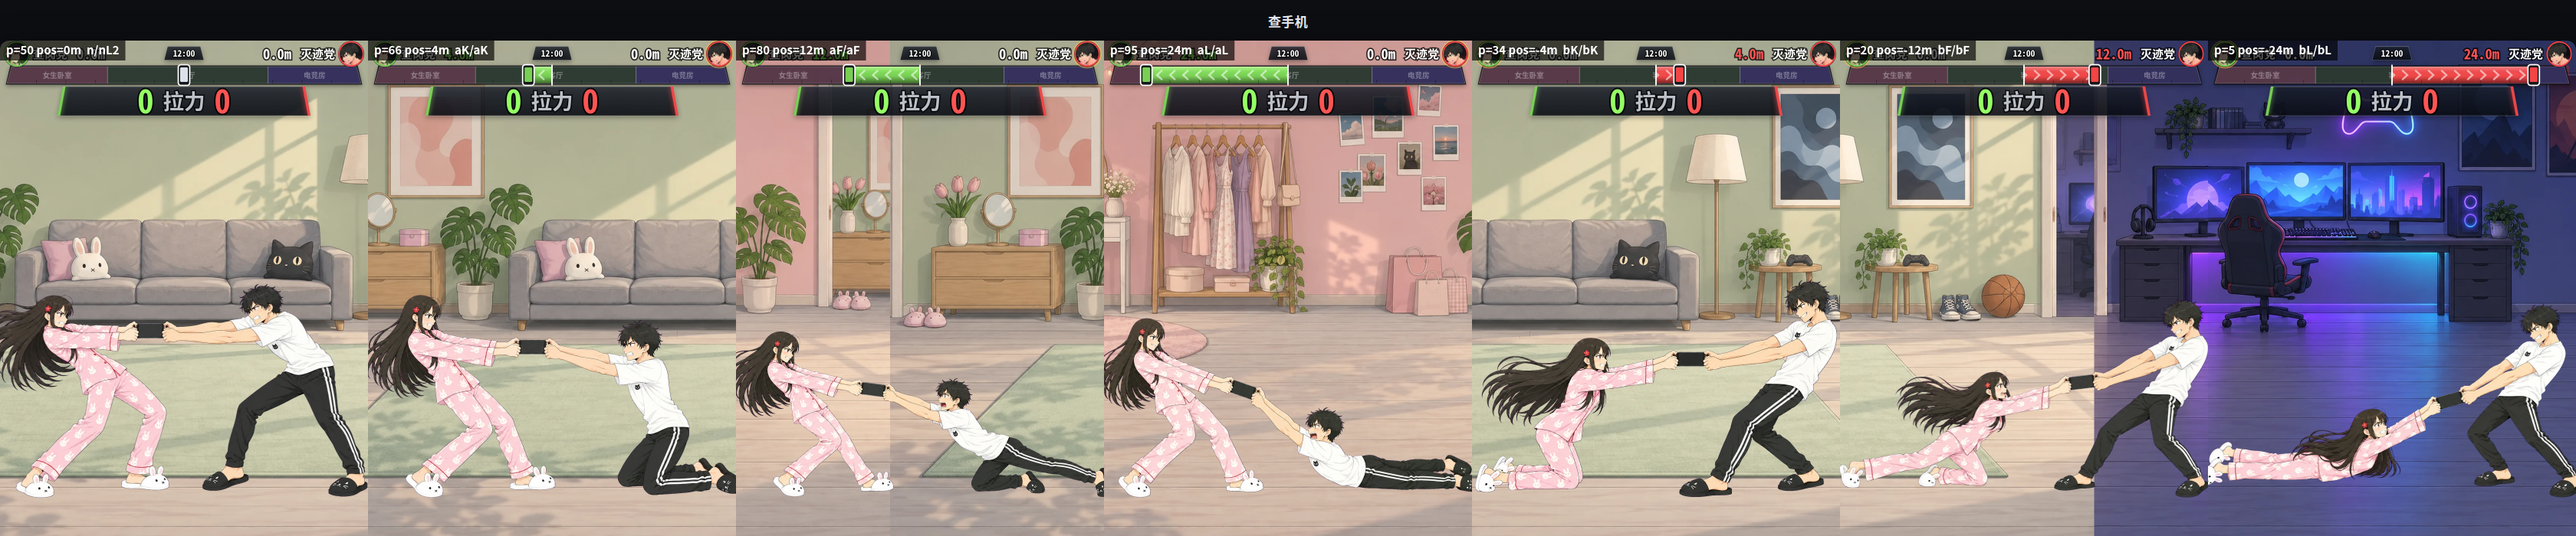
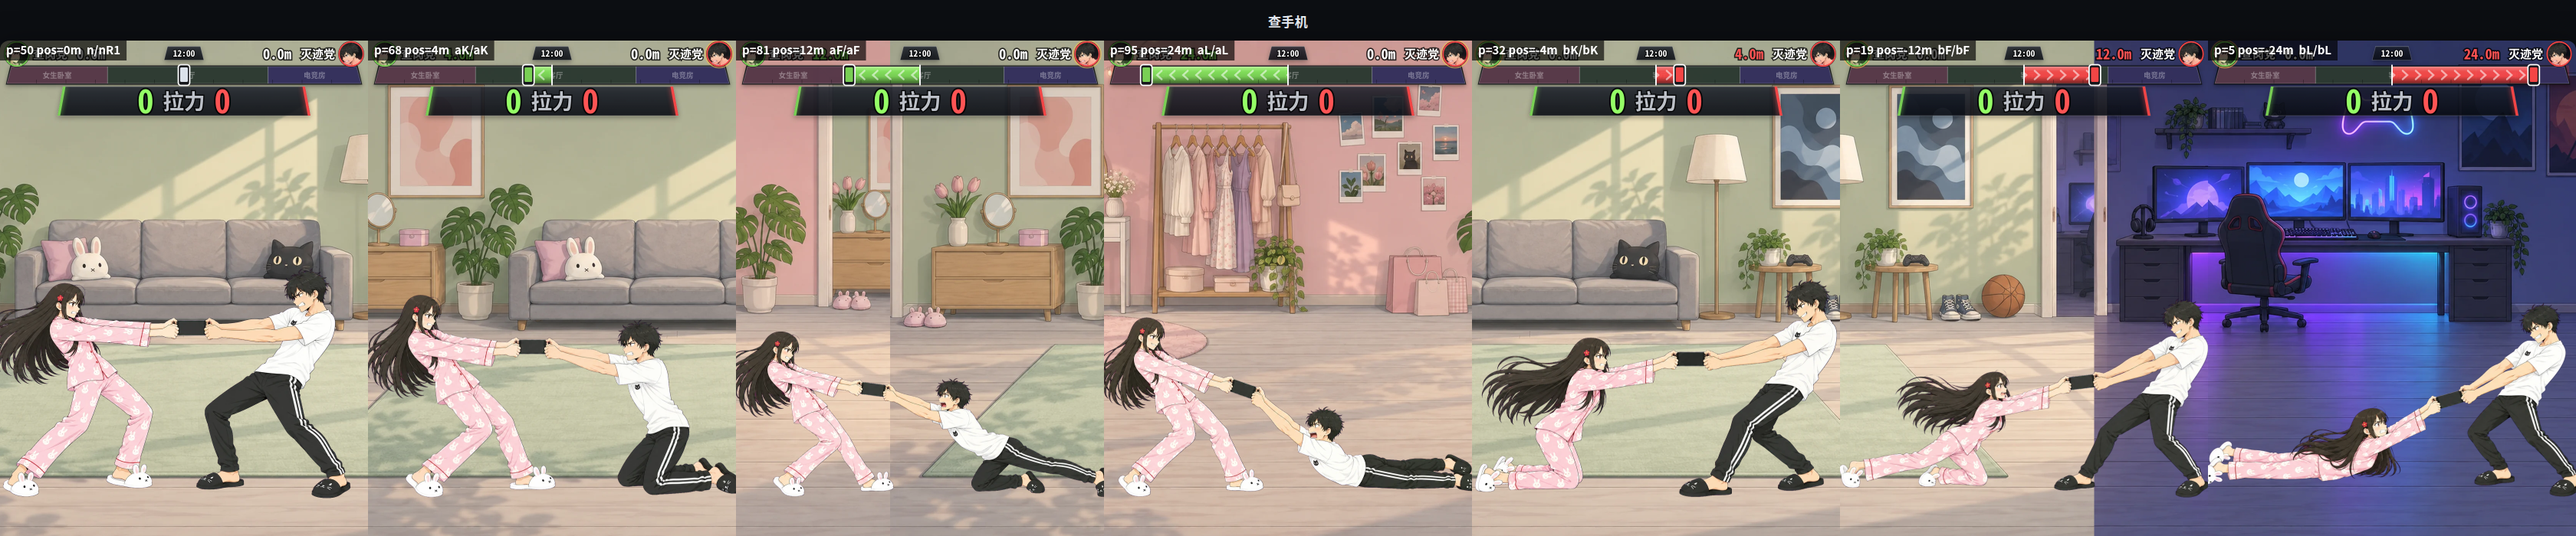
fix: 查手机 v14 四档动作平分并保证每局都看得到
门槛平分 0.25/0.5/0.75；一次只走一档、每档至少 0.6 秒；姿势取拉力与拖动距离两把尺中更狼狈的，反攻时只看拉力。

diff --git a/chashouji/web/main.js b/chashouji/web/main.js
@@ -26,15 +26,26 @@ const P = {
      （距离条上的房间分段按 world.json 现算，不用这两个数）。 */
   pxPerM: 82,
 
-  /* 姿态怎么选：按 S.p 的偏离量 |bias|（0 = 势均力敌，1 = 拉力差顶满）。
+  /* 姿态怎么选：两把尺取更狼狈的那个 ——
+       拉力：S.p 的偏离量 |bias|（0 = 势均力敌，1 = 拉力差顶满）—— 一件大礼物能瞬间把人拽倒；
+       距离：|S.pos| / END（0 = 客厅正中，1 = 到头）—— 被拖得越远倒得越低。
+     只看拉力的话，礼物刷得匀时拉力差几乎不变，一整局停在同一档：实测 2:1 对刷
+     94 秒全是僵持，人站着被平移 30 米。距离这把尺保证每局四档都看得到。
+     例外：被拖远的那方正在往回拽（拉力反号且够跪那档）时只看拉力 —— 他在反攻，
+     不能还趴着。
      带回差（hys）：刚好压在门槛上时，拉锯的一点点抖动会让动作一秒换好几次，
      读出来是抽搐。进门槛要超过 +hys，退出来要低于 -hys。 */
   /* 落后方被拉倒分三档，一档比一档低：跪着 → 往前扑倒 → 趴在地上被拖。
-     领先方全程站着、面朝对方倒退着拽（任何一档都不转身）。 */
-  kneelAt: 0.22,   // 超过它：落后方被拽得跪下
-  fallAt: 0.45,    // 超过它：落后方往前扑倒（一条腿跪着、一条腿往后滑）
-  lieAt: 0.68,     // 超过它：落后方趴在地上被拖
+     领先方全程站着、面朝对方倒退着拽（任何一档都不转身）。
+     四档**平分**（用户定）：两把尺都按 1/4、2/4、3/4 切 —— 拉力差 250/500/750，
+     距离 7.5/15/22.5 米。 */
+  kneelAt: 0.25,   // 超过它：落后方被拽得跪下
+  fallAt: 0.50,    // 超过它：落后方往前扑倒（一条腿跪着、一条腿往后滑）
+  lieAt: 0.75,     // 超过它：落后方趴在地上被拖
   hys: 0.05,
+  /* 一次只走一档，每档至少停这么久。一件戒指盒能让拉力差 1 秒内从 0 冲到
+     趴下那档，不拦的话跪和扑倒各一闪而过；人摔倒本来也是先跪、再扑、再趴。 */
+  stageHold: 0.6,
   /* 僵持循环的播放速度（格/秒）。手绘动画"一拍二"是 12 格/秒，这里只有 5 张
      来回用，8 格/秒一个来回正好一秒 —— 再快就成了抖，不是拉锯。 */
   loopFps: 8,
@@ -84,9 +95,9 @@ const NUM = {
   /* 拖到哪算赢：离客厅正中 END 米。30 米正好在两头房间的深处（见 P.pxPerM）。
      改它不用动背景：镜头按米数算，房间只是铺在那儿的地皮。 */
   END: 30,
-  /* 姿态的满幅刻度：拉力差到这么多，姿态读数 p 就顶到 0 或 100（拖在地上）。
-     取 1000 是让它和上面的 M 共用一把尺 —— 被拽倒的那一刻，正好就是"每秒
-     拖 V_Z 米"的那一刻，动作和速度对得上。 */
+  /* 姿态的满幅刻度：拉力差到这么多，姿态读数 p 就顶到 0 或 100。
+     取 1000 是让它和上面的 M 共用一把尺。试过 2000（= 拖动速度封顶时的差）：
+     标杆的一方猛刷 23:0 拉力差只有 516，整局停在僵持 —— 太钝。 */
   LINE_FULL: 1000,
   LINE_RATE: 2.2,  // 姿态读数趋近拉力差的速率（时间常数 0.45 秒）
 
@@ -244,8 +255,9 @@ function battle(dt) {
 /* 调试台（idle）不跑数值：姿态由滑块或自动演示直接给 S.p。位置照同一把尺子
    从 S.p 积分出来 —— 不然拖滑块只换动作、背景不动，看不出卷轴对不对。 */
 function drift(dt) {
-  const bias = (S.p - 50) / 50;
-  S.vel = Math.abs(bias) * NUM.LINE_FULL > NUM.PULL_X ? bias * NUM.V_Z : 0;
+  const bias = (S.p - 50) / 50, gap = Math.abs(bias) * NUM.LINE_FULL;
+  // 跟 battle() 同一个公式：差值 → 速度，封顶 V_MAX
+  S.vel = gap > NUM.PULL_X ? Math.sign(bias) * Math.min(NUM.V_MAX, gap / NUM.PULL_M * NUM.V_Z) : 0;
   S.pos = clamp(S.pos + S.vel * dt, -NUM.END, NUM.END);
 }
 
@@ -316,18 +328,23 @@ let WORLD = null;
    这是拔河里"谁也没占上风"的样子：一直在使劲、一直在来回，但哪头也没赢。 */
 const LOOP_N = ['n0', 'nL1', 'nL2', 'nL1', 'n0', 'nR1', 'nR2', 'nR1'];
 
-/* 由 |bias| 选动作，带回差。返回 n，或 a/b + K(跪) F(扑倒) L(趴)。 */
+/* 由 |bias|（derive 里两把尺取大之后的值）选动作，带回差。返回 n，或 a/b + K(跪) F(扑倒) L(趴)。
+   held = 当前这档已经停够 P.stageHold：没停够就不换；停够了也只往目标走一档。
+   局势翻转（原来男方倒、现在女方占优）时，先一档档站回僵持，再往另一边倒。 */
 const STAGES = 'KFL';
-function pickPose(prev, bias) {
+function pickPose(prev, bias, held) {
   const k = Math.abs(bias), side = bias > 0 ? 'a' : 'b';
   const lvl = prev === 'n' ? 0 : STAGES.indexOf(prev[1]) + 1;
   const same = prev === 'n' || prev[0] === side;
   const at = [P.kneelAt, P.fallAt, P.lieAt];
+  let want = 0;
   // 回差只对"留在原档"起作用：已经趴下的，要掉到 lieAt-hys 以下才撑起来
-  for (let l = 3; l >= 1; l--) {
-    if (k > ((same && lvl >= l) ? at[l - 1] - P.hys : at[l - 1] + P.hys)) return side + STAGES[l - 1];
+  if (same) for (let l = 3; l >= 1; l--) {
+    if (k > (lvl >= l ? at[l - 1] - P.hys : at[l - 1] + P.hys)) { want = l; break; }
   }
-  return 'n';
+  if (want === lvl || !held) return prev;
+  const next = lvl + Math.sign(want - lvl);
+  return next === 0 ? 'n' : (lvl === 0 ? side : prev[0]) + STAGES[next - 1];
 }
 
 function derive(dt) {
@@ -340,7 +357,10 @@ function derive(dt) {
 
   // p 大 = 查岗党(女方,在左)占优 = 两个人被往左拽
   const bias = (S.p - 50) / 50;
-  const pose = pickPose(FX.pose, bias);
+  const dist = S.pos / NUM.END;
+  const back = Math.sign(bias) !== Math.sign(dist) && Math.abs(bias) >= P.kneelAt;
+  const sev = back || Math.abs(bias) >= Math.abs(dist) ? bias : dist;
+  const pose = pickPose(FX.pose, sev, FX.poseT >= P.stageHold);
   if (pose !== FX.pose) { FX.pose = pose; FX.poseT = 0; } else FX.poseT += dt;
 
   /* 这一帧用哪张图。僵持走循环；被拉倒的三档现在各只有一张图，先靠颠步
@@ -1492,11 +1512,11 @@ const load = (src) => new Promise((ok, no) => { const i = new Image(); i.onload 
      手机位置四样东西对不对得上。p 定动作、pos 定卷到哪 —— 两者本来由同一个
      拉力差推出来，这里分开给是为了每格都落在一个有代表性的位置上。 */
   if (Q.has('strip')) {
-    const cells = [[50, 0], [66, 4], [80, 12], [95, 24], [34, -4], [20, -12], [5, -24]];
+    const cells = [[50, 0], [68, 4], [81, 12], [95, 24], [32, -4], [19, -12], [5, -24]];
     filmstrip(cells.length, (i) => {
       [S.p, S.pos] = cells[i]; S.vel = (S.p - 50) / 50 * NUM.V_Z; S.t = 3.0;
       FX.pose = 'n'; FX.poseT = 0;
-      for (let k = 0; k < 20; k++) derive(1 / 60);
+      for (let k = 0; k < 240; k++) derive(1 / 60);   // 逐档每档停 stageHold，要走够
     }, (i) => `p=${cells[i][0]} pos=${cells[i][1]}m  ${FX.pose}/${FX.frame}`);
     return;
   }
